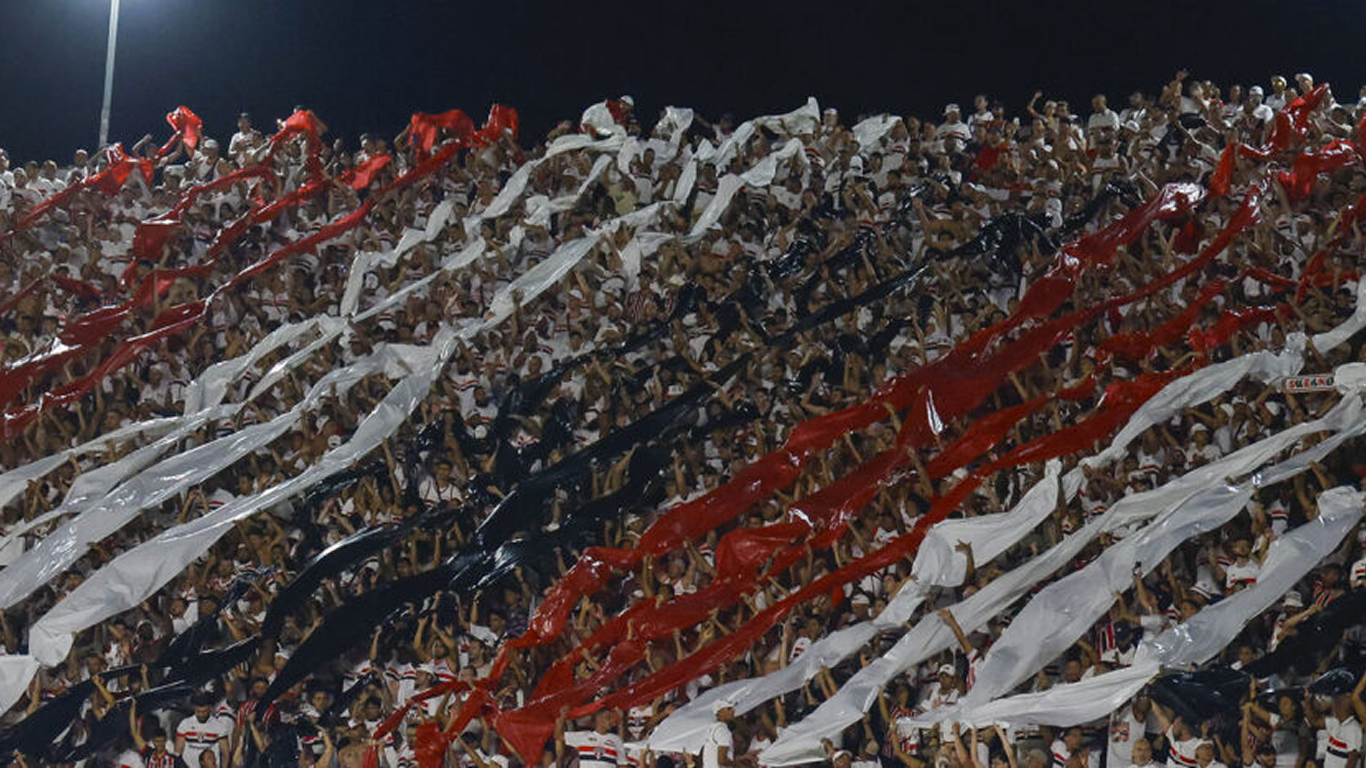
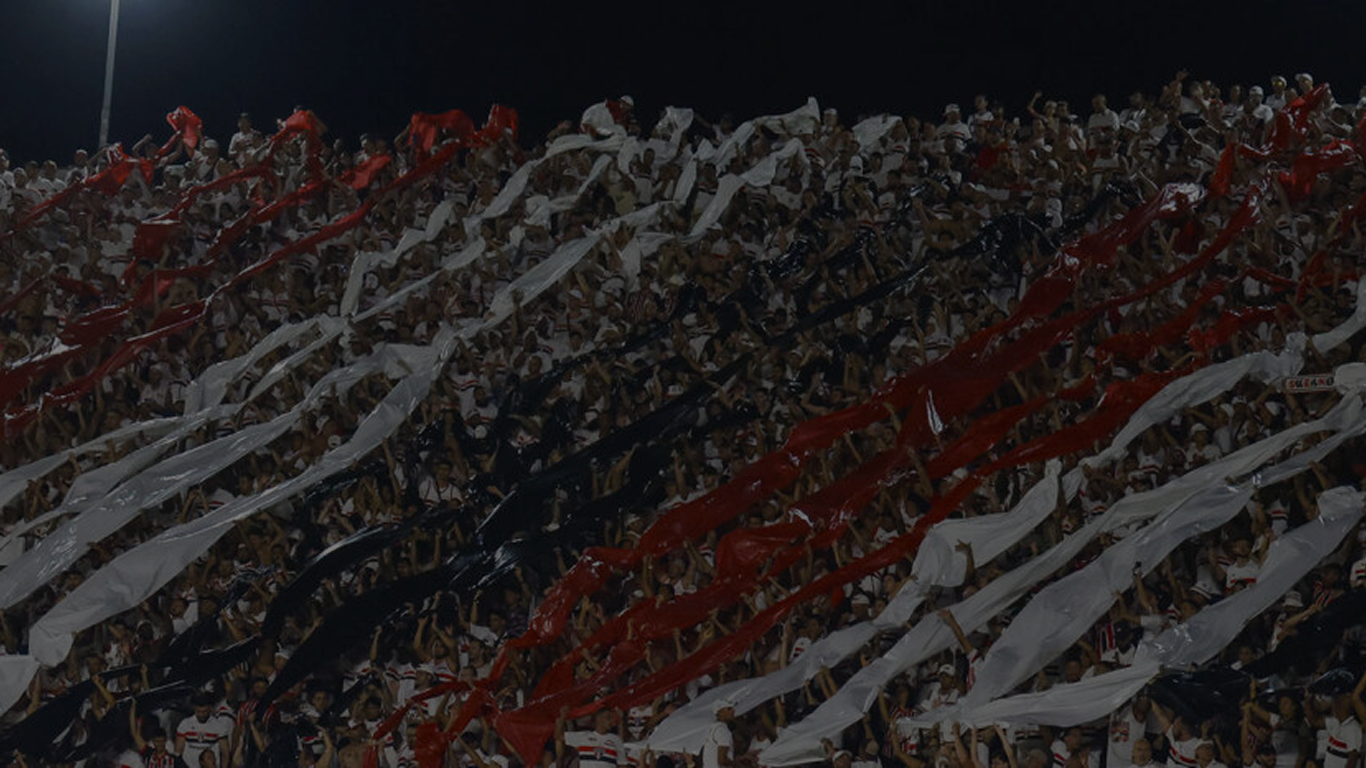
Finalização da página de cadastro (design)

diff --git a/Site/public/style/cadastro.css b/Site/public/style/cadastro.css
@@ -64,8 +64,8 @@
 }
 
 /* Conteúdo */
-.container_login {
-    background-image: url(../assets/img/fundo_login.png);
+.container_cadastro {
+    background-image: url(../assets/img/fundo_cadastro.png);
     width: 100%;
     height: 615px;
     display: flex;
@@ -73,7 +73,7 @@
     align-items: center;
 }
 
-.container_login .saudacao {
+.container_cadastro .saudacao {
     display: flex;
     flex-direction: column;
     justify-content: space-evenly;
@@ -82,41 +82,40 @@
     color: white;
 }
 
-.container_login .saudacao #titulo_saudacao{
+.container_cadastro .saudacao #titulo_saudacao{
     font-size: 70px;
     font-family: "Fira Sans";
     font-weight: 700;
     
 }
 
-.container_login .saudacao #txt_saudacao{
+.container_cadastro .saudacao #txt_saudacao{
     font-size: 27px;
     font-family: "Open sans";
     font-weight: 350;
     text-align: justify;
 }
 
-.container_login .card_login {
+.container_cadastro .card_cadastro {
     background-color: #ffffff17;
     display: flex;
     flex-direction: column;
     width: 500px;
-    height: 450px;
+    height: 570px;
     border-radius: 20px;
     backdrop-filter: blur(5px);
 }
 
-.container_login .card_login #titulo_card {
+.container_cadastro .card_cadastro #titulo_card {
     font-size: 40px;
     font-family: "Fira Sans";
     font-weight: 600;
     text-align: center;
     color: #BC0909;
     margin-top: 30px;
-    margin-bottom: 10px;
 }
 
-.container_login .card_login .inputs_login_cadastro {
+.container_cadastro .card_cadastro .inputs_login_cadastro {
     background-color: #ffffff64;
     width: 350px;
     height: 40px;
@@ -129,7 +128,7 @@
     margin-top: 8px;
 }
 
-.card_login .inputs_login_cadastro input{
+.card_cadastro .inputs_login_cadastro input{
     height: 40px;
     width: 280px;
     border-radius: 10px;
@@ -139,43 +138,27 @@
     font-size: 17px
 }
 
-.card_login .inputs_login_cadastro input:focus{
+.card_cadastro .inputs_login_cadastro input:focus{
     outline: none;
     border: none;
 }
 
-.card_login .inputs_login_cadastro img{
+.card_cadastro .inputs_login_cadastro img{
     width: 30px;
     height: 30px;
     margin-left: 20px;
 }
 
-.card_login #txt_email, #txt_senha{
+.card_cadastro #txt_email, #txt_senha, #txt_username, #txt_dt_nascimento, #txt_senha_confirm{
     color: #FFFFFF;
     font-family: "Open Sans";
     margin-left: 80px;
     font-weight: 500;
-    margin-top: 30px;
+    margin-top: 10px;
     font-size: 18px;
 }
 
-.card_login #txt_cadastreSe {
-    font-family: "Open Sans";
-    color: #FFFFFF;
-    font-weight: 300;
-    font-size: 15px;
-    text-align: center;
-    margin-top: 15px;
-}
-
-.card_login #txt_cadastreSe a {
-    text-decoration: none;
-    color: #FFFFFF;
-    font-weight: 600;
-    margin-left: 5px;
-}
-
-.card_login #btn_login {
+.card_cadastro #btn_cadastro {
     width: 150px;
     height: 50px;
     border-radius: 10px;
@@ -184,8 +167,9 @@
     font-family: "Open Sans";
     font-weight: 600;
     align-self: center;
-    margin-top: 40px;
+    margin-top: 10px;
     background-color: #BC0909;
     color: #FFFFFF;
+    margin-top: 15px;
     cursor: pointer;
 }

diff --git a/Site/public/cadastro.html b/Site/public/cadastro.html
@@ -1,0 +1,98 @@
+<!DOCTYPE html>
+<html lang="en">
+<head>
+    <meta charset="UTF-8">
+    <meta name="viewport" content="width=device-width, initial-scale=1.0">
+    <link rel="stylesheet" href="style/cadastro.css">
+    <title>login</title>
+</head>
+<body>
+    
+    <!-- Navbar -->
+    <div class="navbar_geral">
+        
+        <div class="nav_red"></div>
+        <div class="nav_white"></div>
+
+        <div class="nav_black">
+
+            <img src="assets/icons/logotipo.png">
+
+            <div class="botoes_nav">
+
+                <a href="" class="home_nav">Home</a>
+                <a href="" class="clube_nav">Clube</a>
+                <a href="" class="sobre_mim_nav">Sobre mim</a>
+                <a href="" class="login_nav">Login</a>
+                
+            </div>
+
+        </div>
+        
+    </div>
+
+    
+    <!-- Conteúdo -->
+    <div class="container_cadastro">
+
+        <div class="saudacao">
+
+            <p id="titulo_saudacao">Seja Bem-Vindo!</p>
+    
+            <p id="txt_saudacao">Bem-vindo ao meu espaço dedicado ao São Paulo Futebol Clube! Aqui você encontrará tudo sobre a história, os títulos, os ídolos e a paixão que move milhões de torcedores. O São Paulo FC não é apenas um clube: é símbolo de tradição, conquistas e orgulho tricolor.</p>
+
+        </div>
+
+        <!-- Card Login -->
+        <div class="card_cadastro">
+
+            <p id="titulo_card">Cadastre-se</p>
+
+            <p id="txt_email">Username</p>
+            <div class="inputs_login_cadastro">
+                <img src="assets/icons/username.png">
+                <input type="text" id="input_username">
+            </div>
+
+            <p id="txt_email">Data de Nascimento</p>
+            <div class="inputs_login_cadastro">
+                <img src="assets/icons/data_nasc.png">
+                <input type="date" id="input_dt_nascimento">
+            </div>
+            
+            <p id="txt_email">E-mail</p>
+            <div class="inputs_login_cadastro">
+                <img src="assets/icons/email.png">
+                <input type="text" id="input_email">
+            </div>
+
+            <p id="txt_senha">Senha</p>
+            <div class="inputs_login_cadastro">
+                <img src="assets/icons/senha.png">
+                <input type="password" id="input_senha">
+            </div>
+
+            <p id="txt_email">Confirmação de senha</p>
+            <div class="inputs_login_cadastro">
+                <img src="assets/icons/senha.png">
+                <input type="text" id="input_senha_confirm">
+            </div>
+
+            <button id="btn_cadastro" onclick="cadastro()">Cadastro</button>
+
+        </div>
+
+    </div>
+
+</body>
+</html>
+
+<script>
+
+    function cadastro() {
+        window.location.href = 'login.html'
+
+    }
+
+
+</script>

diff --git a/Site/public/login.html b/Site/public/login.html
@@ -60,7 +60,7 @@
                 <input type="password" id="input_senha">
             </div>
 
-            <p id="txt_cadastreSe">Não possui conta? <a href="">Cadastre-se</a></p>
+            <p id="txt_cadastreSe">Não possui conta? <a href="cadastro.html">Cadastre-se</a></p>
 
             <button id="btn_login" onclick="login()">Login</button>
 
